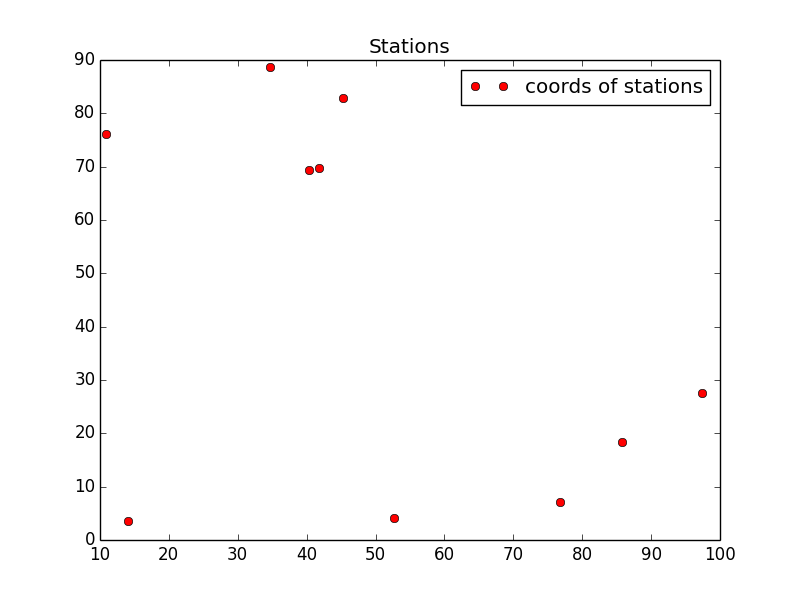
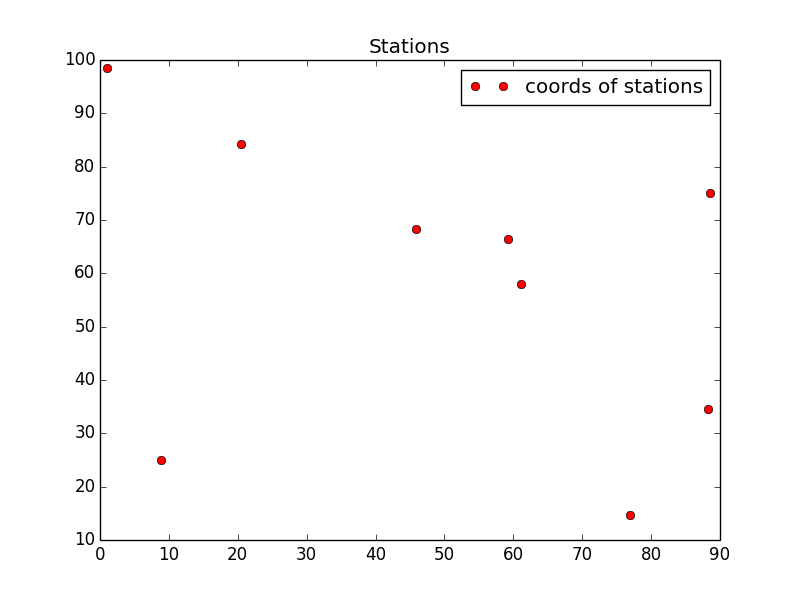
regenerating

diff --git a/GAOperator.py b/GAOperator.py
@@ -15,13 +15,13 @@ class GAOperator:
 
 
         if initial == 'RAND':
-            for i in range(20):
+            for i in range(Nggene):
                 genes.append(DG.generateRAND())
         elif initial == 'OTOC':
-            for i in range(20):
+            for i in range(Nggene):
                 genes.append(DG.generateOTOC())
         elif initial == 'CFSS':
-            for i in range(20):
+            for i in range(Nggene):
                 genes.append(DG.generateCFSS())
 
         
@@ -38,7 +38,7 @@ class GAOperator:
 
         if self.costs[0] >= INF:
             print("initial is shit!")
- 
+
         else :
             for i in range(Nstep):
 
@@ -60,7 +60,8 @@ class GAOperator:
                         i2 = DG.getSimilarRequest(i1 - 1) + 1
                         genes[j].mutation(i1, i2)
 
-                for j in range(Nggene, Ngene):
+                # Optimization
+                for j in range(Ngene):
                     if DG.getCost(genes[j]) < INF:
                         genes[j] = self.optimize(genes[j], DG)
                         genes[j] = self.opt(genes[j], DG)

diff --git a/DataGenerator.py b/DataGenerator.py
@@ -72,7 +72,6 @@ class DataGenerator:
         for trip in trips :
             if not self.available(trip) :
                 # print("unavailable trip")
-                # print(chromo)
                 return False
             tripSet += trip
         for i in range(len(self.requests)) :
@@ -123,8 +122,9 @@ class DataGenerator:
         COST_SHUTTLE = 1000
         cost = COST_SHUTTLE * len(chromo.trips)
         INF = 10000000
-        if not self.chromoAble(chromo): return INF
-        
+        if not self.chromoAble(chromo):
+            return INF
+
         for trip in chromo.trips :
             l = len(trip)
             for i in range(l-1) :

diff --git a/Simulator.py b/Simulator.py
@@ -6,10 +6,20 @@ from Chromosome import Chromosome
 from GAOperator import GAOperator
 
 def main():
+    INF = 10000000
+
     MAP = MapGenerator(m=10)
     Reqs = RequestGenerator(Map = MAP, typ = 'AR', n = 50)
-
     DG = DataGenerator(MG = MAP, RG = Reqs)
+    cfss = DG.generateCFSS() # for available map test
+
+    while DG.getCost(cfss) == INF :
+        print('Map Regenerating..')
+        MAP = MapGenerator(m=10)
+        Reqs = RequestGenerator(Map=MAP, typ='AR', n=50)
+        DG = DataGenerator(MG=MAP, RG=Reqs)
+        cfss = DG.generateCFSS()
+    print('------------------------------------')
 
     print(MAP)
     print(Reqs)
